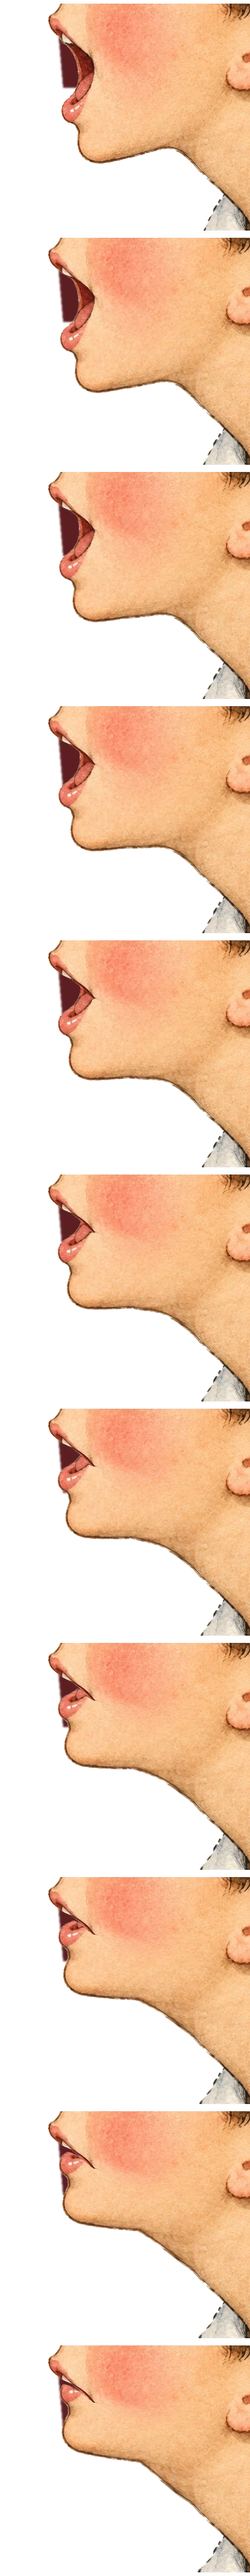
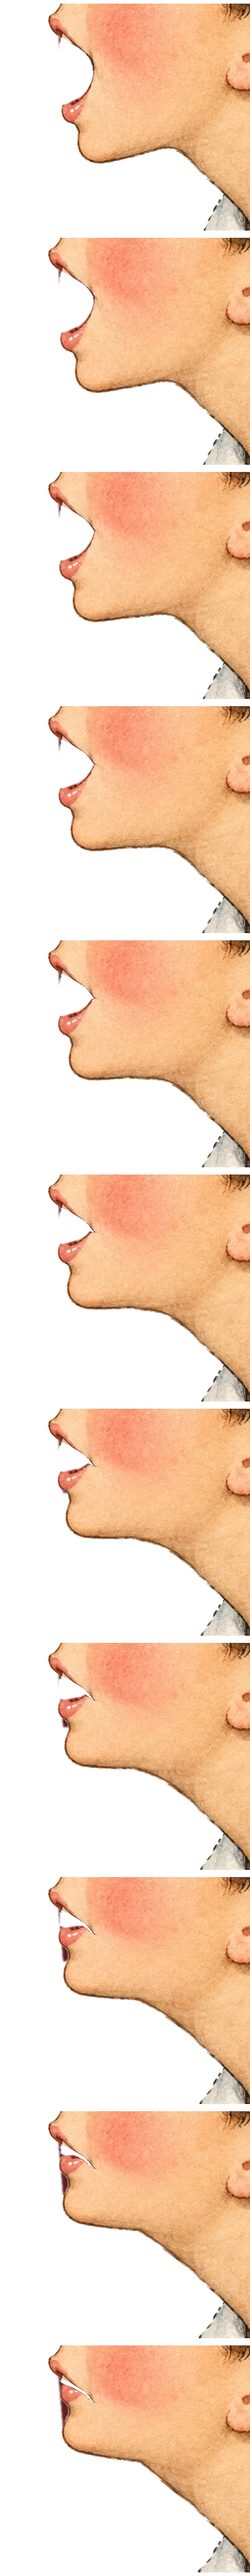
Bite: the biscuit sits behind his face and goes in through his open mouth; it turns between bites so he nibbles the rim

diff --git a/index.html b/index.html
@@ -584,7 +584,7 @@ const PHOTOS = {under: 'img/plain.jpg', milk: 'img/milk.jpg', dark: 'img/dark.jp
 { const im = new Image(); im.onload = () => { CUPSHADOW = cupShadow(im); CUPIMG = im; }; im.src = 'img/teacup.webp'; }
 { const im = new Image(); im.onload = () => { CUTIMG = im; }; im.src = 'img/teacup-cut.webp'; }
 { const L = {}; let n = 0;
-  for (const k of ['head', 'jaw', 'lip']){ const im = new Image(); im.onload = () => { L[k] = im; if (++n === 3) BOYIMG = L; }; im.src = `img/storyboy-${k}.webp?v=5`; } }
+  for (const k of ['head', 'jaw', 'mouth']){ const im = new Image(); im.onload = () => { L[k] = im; if (++n === 3) BOYIMG = L; }; im.src = `img/storyboy-${k}.webp?v=6`; } }
 { const im = new Image(); im.onload = () => { TABLE = tableCanvas(im); }; im.src = 'img/table.jpg'; }
 Promise.all(Object.entries(PHOTOS).map(([id, src]) => new Promise((ok, no) => {
   const im = new Image(); im.onload = () => ok([id, im]); im.onerror = no; im.src = src;
@@ -681,34 +681,42 @@ function geomDunk(top, dd = 0){
   const ry = top + H / 2 + lerp(30 * CU, -2.9 * CU, dd);
   return {cx, ry, a: 30 * CU, b: 23 * CU, h: 34 * CU, e: 5 * CU, tea: ry + 5 * CU};
 }
-// the bite, seen side on: a face comes in from the right, facing left, and eats the biscuit in four bites
+// the bite, seen side on: a boy comes in from the right, facing left, and eats the biscuit in four bites.
+// His mouth is narrower than the biscuit, so he nibbles the rim: between bites the biscuit turns, bringing
+// a fresh piece of edge round to him, and the last bite pops in what is left
 const BITES = [[.14, .30], [.32, .48], [.50, .66], [.68, .84]];   // scroll windows, within the bite section
-const BITE_R = .62;                                              // bite radius, as a share of the biscuit's
-const biteX = i => 1.18 - .52 * i;                               // each bite's centre, biscuit radii right of centre
+const BITE_A = [0, TAU / 3, 2 * TAU / 3, 5 * TAU / 6];            // where on the biscuit each bite lands
+const BITE_LIP = [.6, .6, .6, -.62];                               // how far in his lips go, biscuit radii from its centre
+const BITE_C = 1.5, BITE_R = .9;                                  // each bite mark: a scoop centred this far out, this big
 function biteState(b, r){
-  // where the lips are (their front edge, biscuit radii from its centre), how open, and which bites are done
+  // where the lips are (their front edge, biscuit radii from its centre), how open, which bites are done,
+  // and how far the biscuit has turned
   const enter = 1 + 4.2 + 1.5;   // off the right of the screen
-  let lips = enter, open = 0, done = 0;
-  const approach = ease(seg(b, 0, .12));
-  const RET = .55;   // how far the face draws back between bites, so each bite mark shows
-  lips = lerp(enter, 1 + RET, approach);
+  let lips = enter, open = 0, done = 0, turn = 0;
+  const RET = .55;   // how far he draws back between bites, so each bite mark shows
+  lips = lerp(enter, BITE_LIP[0] + RET, ease(seg(b, 0, .12)));
   for (let i = 0; i < BITES.length; i++){
     const [a0, a1] = BITES[i], p = seg(b, a0, a1);
     if (b < a0) break;
-    const edge = i === 0 ? 1 : biteX(i - 1) - BITE_R, target = biteX(i) - BITE_R;
-    if (p < .4){ const u = ease(p / .4); lips = lerp(edge + RET, target, u); open = Math.sin(Math.min(1, p / .3) * Math.PI / 2); }
+    const target = BITE_LIP[i], from = BITE_LIP[Math.max(0, i - 1)] + RET;
+    turn = BITE_A[i];
+    if (p < .4){ lips = lerp(from, target, ease(p / .4)); open = Math.sin(Math.min(1, p / .3) * Math.PI / 2); }
     else if (p < .55){ lips = target; open = 1 - ease((p - .4) / .15); }
-    else { const u = ease((p - .55) / .45); lips = lerp(target, target + RET, u); open = 0; }
+    else {
+      const u = ease((p - .55) / .45);
+      lips = lerp(target, BITE_LIP[Math.min(i + 1, BITES.length - 1)] > 0 ? BITE_LIP[0] + RET : target + RET, u); open = 0;
+      // while he chews, the biscuit turns to bring the next piece of rim round to him
+      if (i + 1 < BITES.length) turn = lerp(BITE_A[i], BITE_A[i + 1], u);
+    }
     if (p >= .5) done = i + 1;
   }
-  // after the last bite the face slides back out to the right
-  const leave = ease(seg(b, .9, 1));
-  lips = lerp(lips, enter, leave);
-  return {lips, open, done};
+  // after the last bite he slides back out to the right
+  lips = lerp(lips, enter, ease(seg(b, .9, 1)));
+  return {lips, open, done, turn};
 }
 function geomBite(top, b, r){
   const st = biteState(b, r);
-  return {lipsX: W / 2 + st.lips * r, my: top + H / 2, open: st.open, done: st.done};
+  return {lipsX: W / 2 + st.lips * r, my: top + H / 2, open: st.open, done: st.done, turn: st.turn};
 }
 function pose(name, y){
   const N = narrow;
@@ -1558,44 +1566,53 @@ function drawProfile(F){
   ctx.beginPath(); ctx.ellipse(X(-14), Y(-16.6), 2.4 * U, 1 * U, -.25, 0, TAU); ctx.fill();
 }
 // the eater: a storybook boy in profile, painted in watercolour and ink, facing left.
-// He comes in layers: his head; his lower face, painted at eleven jaw positions from wide open to shut;
-// and his upper lip and nose, which sit over the biscuit so it goes between his lips
-const BOY = {lipX: 190, mouthY: 600, mouthH: 160, box: [100, 500, 520, 880], frames: 11, step: .04, pad: 6};   // picture pixels
+// He comes in layers: his head; his lower face, painted at eleven jaw positions from wide open to shut, with the
+// open mouth cut out; and the inside of his mouth at the same eleven positions, which goes behind the biscuit
+const BOY = {lipX: 200, mouthY: 612, box: [100, 500, 520, 880], frames: 11, step: .04, pad: 6};   // picture pixels
 function drawStoryFace(F, t, part){
-  const s = 22 * U / BOY.mouthH;   // his mouth about as tall as a bite
+  // sized so the opening between his lips takes a good piece of the biscuit's rim
+  const s = 1.3 * 21 * U / 115;
   const engaged = F.done > 0 || F.open > 0 ? 1 : 0;
   const chewing = !reduceMotion && F.open < .05 && F.done > 0;
   const munch = chewing ? .5 - .5 * Math.cos(t * 9) : 0;
   // wide open as he comes in, shut on the bite, then munching on the mouthful
   const jaw = engaged ? (chewing ? .14 + .26 * munch : .4 * (1 - F.open)) : 0;
+  const [x0, y0, x1, y1] = BOY.box, w = x1 - x0, h = y1 - y0, row = i => i * (h + 2 * BOY.pad) + BOY.pad;
+  const f = clamp(jaw / BOY.step, 0, BOY.frames - 1), f0 = Math.floor(f), fr = f - f0;
   ctx.save();
   ctx.translate(F.lipsX, F.my + munch * .3 * U);
   ctx.rotate(.03 * (1 - F.open) * engaged);
   ctx.scale(s, s);
   ctx.translate(-BOY.lipX, -BOY.mouthY);
-  if (part === 'back'){
-    // painted behind what is already there (destination-over), so the top layer goes first:
-    // the next jaw frame faded in, then this one, then the rest of his head
-    const [x0, y0, x1, y1] = BOY.box, w = x1 - x0, h = y1 - y0, row = i => i * (h + 2 * BOY.pad) + BOY.pad;
-    const f = clamp(jaw / BOY.step, 0, BOY.frames - 1), f0 = Math.floor(f), fr = f - f0, a0 = ctx.globalAlpha;
-    if (fr > .01 && f0 + 1 < BOY.frames){ ctx.globalAlpha = a0 * fr; ctx.drawImage(BOYIMG.jaw, 0, row(f0 + 1), w, h, x0, y0, w, h); ctx.globalAlpha = a0; }
-    ctx.drawImage(BOYIMG.jaw, 0, row(f0), w, h, x0, y0, w, h);
+  const frame = (img, a) => {
+    if (a){ const a0 = ctx.globalAlpha; ctx.globalAlpha = a0 * fr; ctx.drawImage(img, 0, row(f0 + 1), w, h, x0, y0, w, h); ctx.globalAlpha = a0; }
+    else ctx.drawImage(img, 0, row(f0), w, h, x0, y0, w, h);
+  };
+  const blend = fr > .01 && f0 + 1 < BOY.frames;
+  if (part === 'mouth'){
+    // painted behind what is already there (destination-over), so the top layer goes first
+    if (blend) frame(BOYIMG.mouth, true);
+    frame(BOYIMG.mouth, false);
+  } else {
     ctx.drawImage(BOYIMG.head, 0, 0);
-  } else ctx.drawImage(BOYIMG.lip, 0, 0);
+    frame(BOYIMG.jaw, false);
+    if (blend) frame(BOYIMG.jaw, true);
+  }
   ctx.restore();
 }
 function drawBittenBiscuit(B, done){
   drawBiscuit(B);
   if (!done || B.alpha <= .004) return;
+  // each mark turns with the biscuit
   const r = B.r, hole = (i, grow) => {
-    const cx = B.x + biteX(i) * r, cy = B.y, R = BITE_R * r * grow;
+    const a = BITE_A[i] + B.rot, cx = B.x + Math.cos(a) * BITE_C * r, cy = B.y + Math.sin(a) * BITE_C * r, R = BITE_R * r * grow;
     ctx.beginPath();
-    for (let k = 0; k <= 72; k++){ const a = k / 72 * TAU, w = R * (1 + .04 * Math.sin(a * 13 + i * 2)); k ? ctx.lineTo(cx + Math.cos(a) * w, cy + Math.sin(a) * w) : ctx.moveTo(cx + w, cy); }
+    for (let k = 0; k <= 96; k++){ const t = k / 96 * TAU, w = R * (1 + .025 * Math.sin(t * 19 + i * 2) + .012 * Math.sin(t * 41 + i)); k ? ctx.lineTo(cx + Math.cos(t) * w, cy + Math.sin(t) * w) : ctx.moveTo(cx + w, cy); }
     ctx.closePath();
   };
   // a crumbly darker edge where the teeth went through, then the bites themselves
   ctx.save(); ctx.beginPath(); ctx.arc(B.x, B.y, r, 0, TAU); ctx.clip();
-  for (let i = 0; i < done; i++){ hole(i, 1.05); ctx.fillStyle = 'rgba(120,70,30,.45)'; ctx.fill(); }
+  for (let i = 0; i < done; i++){ hole(i, 1.04); ctx.fillStyle = 'rgba(120,70,30,.45)'; ctx.fill(); }
   ctx.restore();
   ctx.save(); ctx.globalCompositeOperation = 'destination-out';
   for (let i = 0; i < done; i++){ hole(i, 1); ctx.fill(); }
@@ -1782,7 +1799,7 @@ function frame(y, t){
   const alpha = M.done >= BITES.length ? 0 : 1;
   const sx = P.sx * tiltSx;
   const B = {
-    x: bx, y: by, r: br, rot: brot, sx, axis: tiltAxis, alpha,
+    x: bx, y: by, r: br, rot: brot - (b > 0 ? M.turn : 0), sx, axis: tiltAxis, alpha,
     tex: sx < 0 ? TEXTURES.milk : TEXTURES.under,
     tex2: null, mix: 0,
     // dry until it has actually gone into the tea
@@ -1938,17 +1955,18 @@ function frame(y, t){
     belowRibbon(() => {
       if (BOYIMG){
         // the biscuit goes between his lips: in front of his chin, under his upper lip
-        // the bite marks are cut out of the canvas, so the biscuit goes down first and his head slides in behind it
+        // the biscuit sits behind his face and shows through his open mouth. The bite marks are cut out of the
+        // canvas, so the biscuit goes down first, the inside of his mouth slides in behind it, then his face on top
         drawBittenBiscuit(B, F.done);
-        ctx.save(); ctx.globalCompositeOperation = 'destination-over'; drawStoryFace(F, t, 'back'); ctx.restore();
-        drawStoryFace(F, t, 'lip');
+        ctx.save(); ctx.globalCompositeOperation = 'destination-over'; drawStoryFace(F, t, 'mouth'); ctx.restore();
+        drawStoryFace(F, t, 'face');
       } else { drawBittenBiscuit(B, F.done); drawMouthInside(F); drawProfile(F); }
     });
     // crumbs drop from each bite
     for (let i = 0; i < BITES.length; i++){
       const [a0, a1] = BITES[i], cq = seg(b, a0 + (a1 - a0) * .5, a1 + .05);
       if (cq <= 0 || cq >= 1) continue;
-      const ex = B.x + (biteX(i) - BITE_R) * 21 * U;
+      const ex = B.x + Math.max(BITE_LIP[i], .3) * 21 * U;
       for (let j = 0; j < 9; j++){
         const sp = .5 + hash(j + 1100 + i * 17);
         const x = ex + (hash(j + 1200 + i * 13) - .3) * 8 * U - cq * 6 * U * sp;
